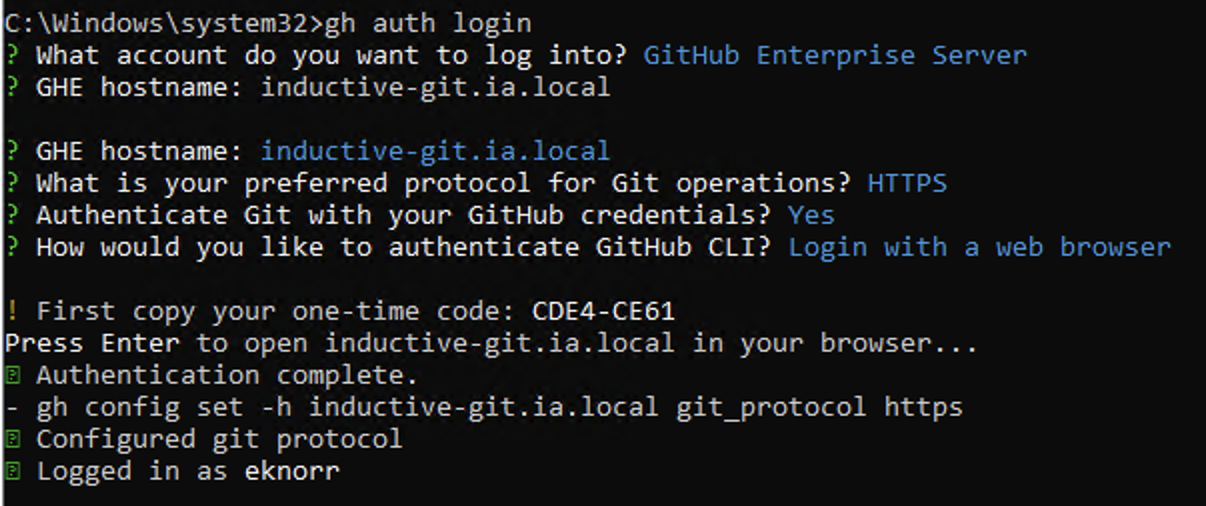
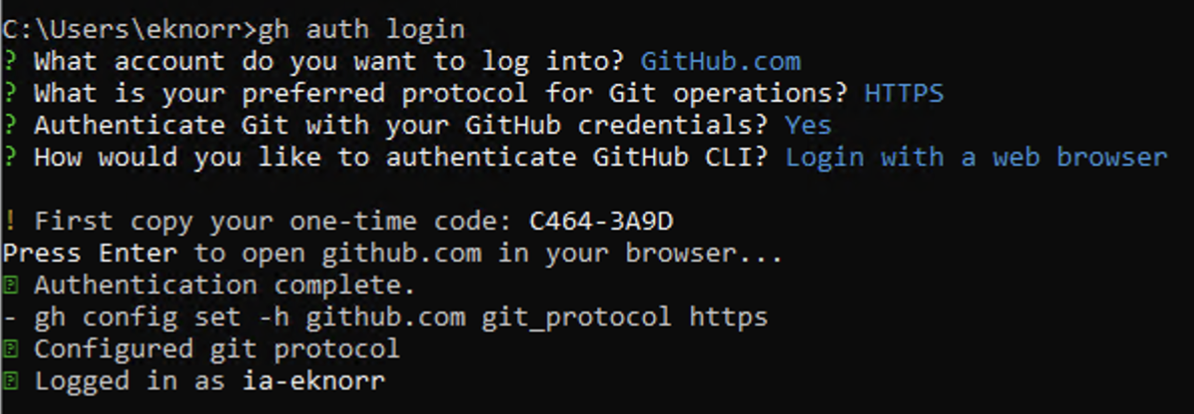
Eknorr/remove ia local refs (#1)
* Chore: Update images to relevant non-ia specific images

* Chore: Update verbiage and update links

* Chore: Update workstation setup with new links and check verbiage

* Chore: Update initialize local repo doc for links and verbiage

* Chore: add  markdownlint config to allow duplicate headers in non-siblings

* Chore: Update markdownlint config with desired overrides

* Chore: Update branch and push md file links

* Chore: Update workstation setup verbiage and links

* Chore: Disable MD028

* Chore: Update doc per markdownlint standard

Changed region(s): [[0.0, 0.0, 0.9916, 1.0]]

diff --git a/README.md b/README.md
@@ -11,7 +11,6 @@
     - [What is Git?](#what-is-git)
     - [Why do we use version control?](#why-do-we-use-version-control)
     - [Why is version control important?](#why-is-version-control-important)
-  - [Software Requirements](#software-requirements)
   - [Terms](#terms)
   - [Common Git Commands](#common-git-commands)
     - [Example](#example)
@@ -26,24 +25,25 @@ Learn how to use version control with Git and Ignition.
 
 ## How to use this repository
 
-This repo can be used as a manual to be read from top to bottom in order to learn the basics of git all the way up to advanced strategies, or as a reference to be reminded of certain functions or strategies.
+This repo can be used as a manual to be read from top to bottom in order to learn the basics of git and gain intermediate strategies, or as a reference to be reminded of certain functions or strategies.
 
-If you consider yourself new to git with Ignition, it may be useful to go through the [Git Ignition Lab](https://inductive-git.ia.local/eknorr/git-ignition-lab.git), which will give you a practical ideal of git version control for Ignition development
+If you consider yourself new to git with Ignition, it may be useful to go through the [Git Ignition Lab](https://github.com/ia-eknorr/git-ignition-lab), which will give you a practical ideal of git version control for Ignition development.
 
 ## Course Contents
 >
-> :memo: **Note**: Bulleted that are not hyperlinked are road-mapped for later documentation development.
+> :memo: **Note**: Bulleted that are not hyperlinked are road-mapped for future development.
 
-- [Git Ignition Lab](https://inductive-git.ia.local/eknorr/git-ignition-lab.git)
-- [Basics of Git](https://inductive-git.ia.local/eknorr/version-control)
+- [Git Ignition Lab](https://github.com/ia-eknorr/git-ignition-lab)
+- [Basics of Git](https://github.com/ia-eknorr/ignition-version-control)
   - [Workstation Setup](Workstation%20Setup.md)
   - [Initialize a local repository](Initialize%20a%20Local%20Repository.md)
   - [Create a branch and push changes](Create%20a%20Branch%20and%20Push%20changes.md)
   - [Create a pull request](Create%20a%20Pull%20Request.md)
 - [Branching Strategies](Branching%20Strategy.md)
+- [Ignition Git Style Guide](https://github.com/ia-eknorr/ignition-git-style-guide)
 - Intermediate Git
   - Resolving Merge conflicts
-  - intermediate commands
+  - Intermediate commands
     - stash
     - reflog
     - reset
@@ -67,8 +67,6 @@ Version control is important because it allows a team to (among many other thing
 - Merge changes without overwriting other features
 - Revert accidentally deleted work.
 - Provide context into why a certain decision was made about the project and who made that decision
-
-## [Software Requirements](Software%20Requirements.md)
 
 ## Terms
 
@@ -113,6 +111,8 @@ Version control is important because it allows a team to (among many other thing
 ### Example
 >
 > git status
+> git checkout my-branch
+> git pull origin main
 
 ## Common Shell Commands
 
@@ -125,7 +125,7 @@ Version control is important because it allows a team to (among many other thing
 
 ### Example
 >
-> cd /usr/local/bin
+> cd /usr/local/bin/ignition
 
 ## Objectives
 
@@ -136,4 +136,4 @@ Version control is important because it allows a team to (among many other thing
 
 ## Requests? Issues?
 
-If you notice any gaps, typos, or unclear verbiage in this documentation or have any requests for a how-to guide, [open an issue](https://inductive-git.ia.local/eknorr/version-control/issues) or submit a pull request.
+If you have any questions or notice something that doesn't look right, [open an issue](https://github.com/ia-eknorr/ignition-version-control/issues) or submit a pull request.

diff --git a/Workstation Setup.md b/Workstation Setup.md
@@ -23,7 +23,7 @@ Before getting started with version control, you will need to set up your workst
 
 ### Visual Studio Code
 
-One of the most widely used IDE's. Do yourself a favor and just download it. If you hate it, I'll give you $5.
+One of the most widely used Integrated Development Environments (IDE). While there are many other IDEs to choose from, each with their individual pros and cons, this guide will use VS Code.
 
 - [Downloads Page](https://code.visualstudio.com/download)
 
@@ -33,7 +33,7 @@ One of the most widely used IDE's. Do yourself a favor and just download it. If 
 
 #### Configuration
 
-Although no additional configuration is required for VSCode, there are several [Extensions](https://marketplace.visualstudio.com/vscode) that provide significant quality of life improvements in VSCode. Below is a list that you might find useful:
+Although no additional configuration is required for VS Code, there are several [Extensions](https://marketplace.visualstudio.com/vscode) that provide significant quality of life improvements in VS Code. Below is a list that you might find useful:
 
 - [Python](https://marketplace.visualstudio.com/items?itemName=ms-python.python)
 - [Pylance](https://marketplace.visualstudio.com/items?itemName=ms-python.vscode-pylance)
@@ -76,7 +76,7 @@ Although other version control software exists, this is IA's preferred version c
 >
 > For Windows:
 > 
-> - Check if you have winget by running `winget -v` on Command Prompt. If it doesn't return a version number, then talk to @eknorr. He will help you.
+> - Check if you have winget by running `winget -v` on Command Prompt. If it doesn't return a version number, then try the direct download link given above.
 > 
 > For MacOS:
 > 
@@ -102,7 +102,9 @@ Although other version control software exists, this is IA's preferred version c
 
     ![Git Version](images/git-version.png)
    - If a git version number is not returned, check that the installation has finished, or try uninstalling and reinstalling using the procedure in the previous section.
+
 3. Configure username and email
+   - This is the email and name that will be shown on your commits and pull requests.
 
     ```shell
     git config --global user.name “your username”
@@ -157,7 +159,7 @@ Although other version control software exists, this is IA's preferred version c
     gh auth login
     ```
   
-   - Follow the prompts to log in with GitHub Enterprise Server.
+   - Follow the prompts to log in to Github.
    - There are multiple ways to authenticate - one example is provided below.
 
     ![GitHub Auth Login](images/gh-auth-login.png)
@@ -166,4 +168,5 @@ More information about the setup process can be found [here](https://docs.github
 
 Now your workstation is connected to GitHub!
 
-**Next: [Initialize a Local Repository](Initialize%20a%20Local%20Repository.md)**
+**Next: [Initialize a Local Repository](Initialize%20a%20Local%20Repository.md)**vccgbftcgkfitjuiutrdiflcgttfkuieukrtij
+dtcv

diff --git a/Initialize a Local Repository.md b/Initialize a Local Repository.md
@@ -38,9 +38,9 @@
       > :memo: **_Note_**: The git remote add command takes two arguments:
       >
       > - A remote name, for example, `origin`
-      > - A remote URL, for example, <https://inductive-git.ia.local/eknorr/version-control.git>
+      > - A remote URL, for example, <https://github.com/ia-eknorr/ignition-version-control.git>
       >
-      > Although any name _could_ be used to reference the remote repository, it is conventional to use  `origin`. The [IA Git Style Guide](https://inductive-git.ia.local/eknorr/git-style-guide.git) should be followed wherever possible.
+      > Although any name _could_ be used to reference the remote repository, it is conventional to use  `origin`. The [IA Git Style Guide](https://github.com/ia-eknorr/ignition-git-style-guide) should be followed wherever possible.
 
       > :memo:**_Note_**: A local repository can have multiple remote sources. In the case of a forked repository, an `upstream` remote would conventionally reference the original repository location, while `origin` would reference the copy that was made to push local changes for testing before pushing to the `upstream` repository.
 

diff --git a/Create a Branch and Push changes.md b/Create a Branch and Push changes.md
@@ -34,7 +34,7 @@ This document loosely follows GitHub Flow, one of many version control strategie
 
     > :bulb: **FAQ**: How do I know if I'm on the right branch?
     >  
-    > When [Initializing a Local Repository](Initialize%20a%20Local%20Repository.md), a default branch name of `main` was given. According to the [IA Git Style Guide](https://inductive-git.ia.local/eknorr/git-style-guide.git), it is not recommended to develop on the `main`. If preparing to develop a new feature, consider making a new branch for that feature with a descriptive name.
+    > When [Initializing a Local Repository](Initialize%20a%20Local%20Repository.md), a default branch name of `main` was given. According to the [IA Git Style Guide](https://github.com/ia-eknorr/ignition-git-style-guide), it is not recommended to develop on the `main`. If preparing to develop a new feature, consider making a new branch for that feature with a descriptive name.
 
 3. Make edits to files in VSCode or Ignition Designer
    - Now that a working branch has been checked out, edits to files without affecting the main branch or remote repository.
